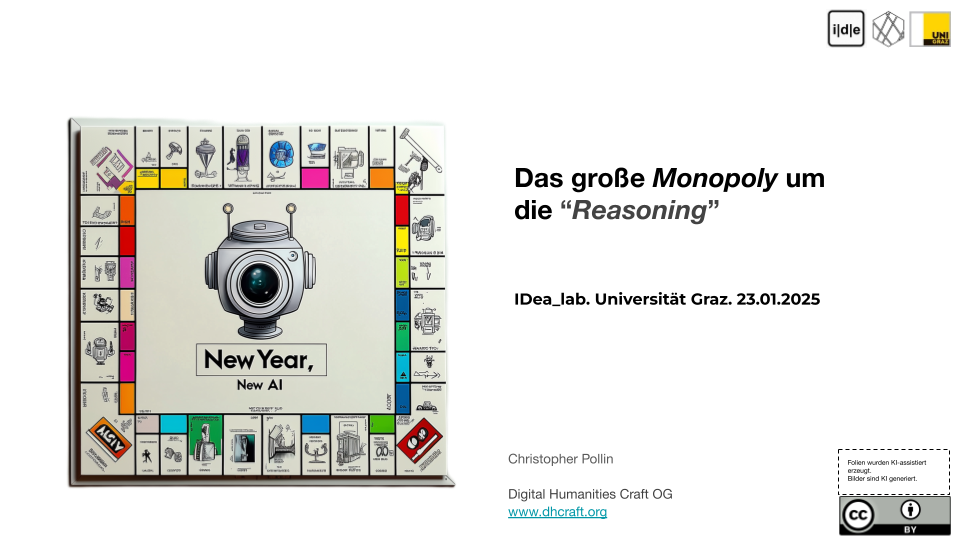
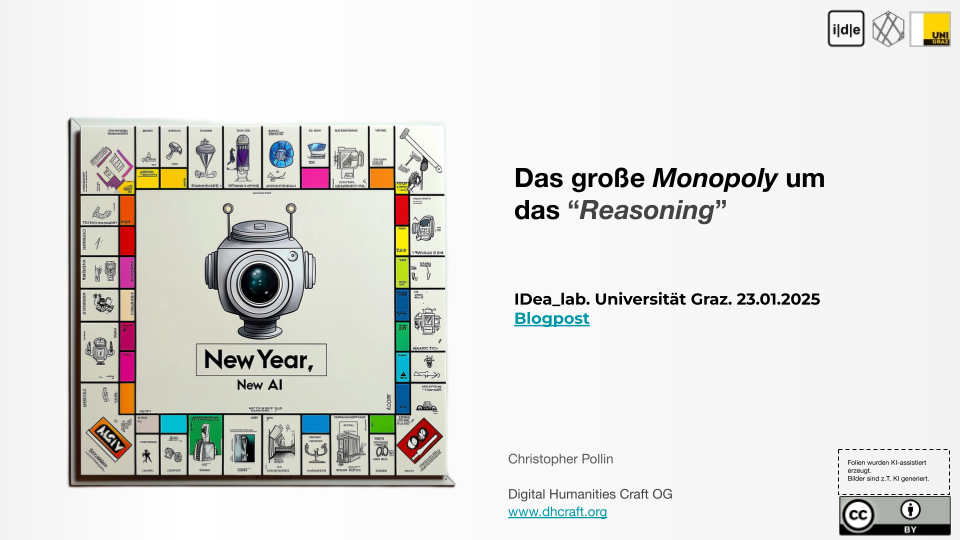
update

Changed region(s): [[0.5312, 0.3556, 0.75, 0.4148], [0.5312, 0.563, 0.625, 0.6222], [0.9062, 0.8593, 0.9688, 0.8889]]

diff --git a/index.html b/index.html
@@ -30,7 +30,7 @@
     <main>
         <div class="container mt-4">
             <section>
-                <h1>Workshopreihe "Angewandte Generative KI in den (digitalen) Geisteswissenschaften" - AGKI</h1>
+                <h1>"Angewandte Generative KI in den (digitalen) Geisteswissenschaften" - AGKI</h1>
                 <p class="lead">How to cite: Pollin, C. (2025). Workshopreihe "Angewandte Generative KI in den (digitalen) Geisteswissenschaften" (v1.1.0). Zenodo. <a href="https://doi.org/10.5281/zenodo.10647754" target="_blank" rel="noopener noreferrer">https://doi.org/10.5281/zenodo.10647754</a></p>
                 <ul>
                     <li><a href="https://www.zotero.org/groups/5319178/agki-dh" target="_blank" rel="noopener noreferrer">Zotero Bibliothek (Literatur und Papers)</a></li>
@@ -38,91 +38,6 @@
                     <li><a href="https://youtube.com/playlist?list=PLaHADNRco7n3LtUHqCwyqzAi2f8WB57Eg&si=CmX3OElxYkid0E2I" target="_blank" rel="noopener noreferrer">YouTube Playlist: Aufzeichnungen der Vorträge der Workshopreihe</a></li>
                 </ul>
            </section>
-           <section>
-            <div class="row my-3">
-                <div class="col-sm-4">
-                    <a href="workshop-pages/workshop1.html" class="card-link text-decoration-none">
-                        <div class="card">
-                            <img src="img/AGKI-RDF-Creation.png" class="card-img-top" alt="Workshop 1">
-                            <div class="card-body">
-                                <h5 class="card-title">Erzeugung und Modellierung von RDF-Daten</h5>
-                                <p class="card-text">Donnerstag, 15.06.2023, 10:00 - 11:00 Uhr</p>
-                            </div>
-                        </div>
-                    </a>
-                </div>
-                <div class="col-sm-4">
-                    <a href="workshop-pages/workshop2.html" class="card-link text-decoration-none disabled">
-                        <div class="card">
-                            <img src="img/AGKI-DigitalEdition-Text-TEI-HSA.png" class="card-img-top" alt="Workshop 2">
-                            <div class="card-body">
-                                <h5 class="card-title">Digitale Edition und TEI: Unstrukturierter Text nach TEI</h5>
-                                <p class="card-text">Donnerstag, 22.06.2023, 10:00 - 11:00 Uhr</p>
-                            </div>
-                        </div>
-                    </a>
-                </div>
-                <div class="col-sm-4">
-                    <a href="workshop-pages/workshop3.html" class="card-link text-decoration-none disabled">
-                        <div class="card">
-                            <img src="img/AGKI-DataStory-ExilTrans.png" class="card-img-top" alt="Workshop 3">
-                            <div class="card-body">
-                                <h5 class="card-title">Datenvisualisierung und Data Stories: Analyse biographischer Daten von ins Exil geflüchteten Übersetzer*innen mit Python und Jupyter Notebook</h5>
-                                <p class="card-text">Donnerstag, 29.06.2023, 10:00 - 11:00 Uhr</p>
-                            </div>
-                        </div>
-                    </a>
-                </div>
-            </div>
-            <div class="row my-3">
-                <div class="col-sm-4">
-                    <a href="workshop-pages/workshop4.html" class="card-link text-decoration-none">
-                        <div class="card">
-                            <img src="img/AGKI-ChatGPT-4-Advanced-Data-Analysis.png" class="card-img-top" alt="Workshop 4">
-                            <div class="card-body">
-                                <h5 class="card-title">Generieren. Transformieren. Analysieren. Visualisieren. ChatGPT-4 Advanced Data Analysis</h5>
-                                <p class="card-text">Montag, 02.10.2023, 12:00 - 13:00</p>
-                            </div>
-                        </div>
-                    </a>
-                </div>
-                <div class="col-sm-4">
-                    <a href="workshop-pages/workshop5.html" class="card-link text-decoration-none">
-                        <div class="card">
-                            <img src="img/AGKI-PromptEngineering.png" class="card-img-top" alt="Workshop 5">
-                            <div class="card-body">
-                                <h5 class="card-title">Einführung in das Prompt Engineering</h5>
-                                <p class="card-text">Montag, 09.10.2023, 12:00 - 13:00</p>
-                            </div>
-                        </div>
-                    </a>
-                </div>
-                <div class="col-sm-4">
-                    <a href="workshop-pages/workshop6.html" class="card-link text-decoration-none">
-                        <div class="card">
-                            <img src="img/AGKI-Text-to-Image-Midjourney-DALL-E3.png" class="card-img-top" alt="Workshop 6">
-                            <div class="card-body">
-                                <h5 class="card-title">Text to Image. Midjourney und DALL-E 3</h5>
-                                <p class="card-text">Montag, 16.10.2023, 12:00 - 13:00</p>
-                            </div>
-                        </div>
-                    </a>
-                </div>
-            </div>
-            <div class="row my-3">
-                <div class="col-sm-4">
-                    <a href="workshop-pages/workshop7.html" class="card-link text-decoration-none">
-                        <div class="card">
-                            <img src="img/AGKI-GPT-API.jpg" class="card-img-top" alt="Workshop 7">
-                            <div class="card-body">
-                                <h5 class="card-title">LLM und API. Am Beispiel von GPT</h5>
-                                <p class="card-text">Montag, 20.11.2023, 12:00 - 13:00</p>
-                            </div>
-                        </div>
-                    </a>
-                </div>
-            </div>
-        </section>
         <section>
             <div class="row my-5">
                 <h2>Akademische Vorträge und Workshops</h2>
@@ -285,10 +200,136 @@
             </div>
             </div>
         </section>
+            <section>
+                <div class="row my-3">
+                    <h2>AGKI Workshopreihe</h2>
+                    <div class="col-sm-4">
+                        <a href="workshop-pages/workshop1.html" class="card-link text-decoration-none">
+                            <div class="card">
+                                <img src="img/AGKI-RDF-Creation.png" class="card-img-top" alt="Workshop 1">
+                                <div class="card-body">
+                                    <h5 class="card-title">Erzeugung und Modellierung von RDF-Daten</h5>
+                                    <p class="card-text">Donnerstag, 15.06.2023, 10:00 - 11:00 Uhr</p>
+                                </div>
+                            </div>
+                        </a>
+                    </div>
+                    <div class="col-sm-4">
+                        <a href="workshop-pages/workshop2.html" class="card-link text-decoration-none disabled">
+                            <div class="card">
+                                <img src="img/AGKI-DigitalEdition-Text-TEI-HSA.png" class="card-img-top" alt="Workshop 2">
+                                <div class="card-body">
+                                    <h5 class="card-title">Digitale Edition und TEI: Unstrukturierter Text nach TEI</h5>
+                                    <p class="card-text">Donnerstag, 22.06.2023, 10:00 - 11:00 Uhr</p>
+                                </div>
+                            </div>
+                        </a>
+                    </div>
+                    <div class="col-sm-4">
+                        <a href="workshop-pages/workshop3.html" class="card-link text-decoration-none disabled">
+                            <div class="card">
+                                <img src="img/AGKI-DataStory-ExilTrans.png" class="card-img-top" alt="Workshop 3">
+                                <div class="card-body">
+                                    <h5 class="card-title">Datenvisualisierung und Data Stories: Analyse biographischer Daten von ins Exil geflüchteten Übersetzer*innen mit Python und Jupyter Notebook</h5>
+                                    <p class="card-text">Donnerstag, 29.06.2023, 10:00 - 11:00 Uhr</p>
+                                </div>
+                            </div>
+                        </a>
+                    </div>
+                </div>
+                <div class="row my-3">
+                    <div class="col-sm-4">
+                        <a href="workshop-pages/workshop4.html" class="card-link text-decoration-none">
+                            <div class="card">
+                                <img src="img/AGKI-ChatGPT-4-Advanced-Data-Analysis.png" class="card-img-top" alt="Workshop 4">
+                                <div class="card-body">
+                                    <h5 class="card-title">Generieren. Transformieren. Analysieren. Visualisieren. ChatGPT-4 Advanced Data Analysis</h5>
+                                    <p class="card-text">Montag, 02.10.2023, 12:00 - 13:00</p>
+                                </div>
+                            </div>
+                        </a>
+                    </div>
+                    <div class="col-sm-4">
+                        <a href="workshop-pages/workshop5.html" class="card-link text-decoration-none">
+                            <div class="card">
+                                <img src="img/AGKI-PromptEngineering.png" class="card-img-top" alt="Workshop 5">
+                                <div class="card-body">
+                                    <h5 class="card-title">Einführung in das Prompt Engineering</h5>
+                                    <p class="card-text">Montag, 09.10.2023, 12:00 - 13:00</p>
+                                </div>
+                            </div>
+                        </a>
+                    </div>
+                    <div class="col-sm-4">
+                        <a href="workshop-pages/workshop6.html" class="card-link text-decoration-none">
+                            <div class="card">
+                                <img src="img/AGKI-Text-to-Image-Midjourney-DALL-E3.png" class="card-img-top" alt="Workshop 6">
+                                <div class="card-body">
+                                    <h5 class="card-title">Text to Image. Midjourney und DALL-E 3</h5>
+                                    <p class="card-text">Montag, 16.10.2023, 12:00 - 13:00</p>
+                                </div>
+                            </div>
+                        </a>
+                    </div>
+                </div>
+                <div class="row my-3">
+                    <div class="col-sm-4">
+                        <a href="workshop-pages/workshop7.html" class="card-link text-decoration-none">
+                            <div class="card">
+                                <img src="img/AGKI-GPT-API.jpg" class="card-img-top" alt="Workshop 7">
+                                <div class="card-body">
+                                    <h5 class="card-title">LLM und API. Am Beispiel von GPT</h5>
+                                    <p class="card-text">Montag, 20.11.2023, 12:00 - 13:00</p>
+                                </div>
+                            </div>
+                        </a>
+                    </div>
+                </div>
+            </section>
+            <section>
+                <div class="row my-5">
+                    <h2>Blogbeiträge</h2>
+                    <div class="row my-3">
+                        <div class="col-sm-4">
+                            <a href="https://dhcraft.org/excellence/blog/Task-A(G)I" class="card-link text-decoration-none">
+                                <div class="card">
+                                    <img src="img/Task-AGI.png" class="card-img-top" alt="Prompt-Engineering-Forschungsdatenmanagement-DE-24">
+                                    <div class="card-body">
+                                        <h5 class="card-title">OpenAI’s Deep Research und erste “Task-A(G)I” Systeme?</h5>
+                                        <p class="card-text">Februar 2025</p>
+                                    </div>
+                                </div>
+                            </a>
+                        </div>
+                        <div class="col-sm-4">
+                            <a href="https://dhcraft.org/excellence/blog/New-Year-New-AI-IdeaLab-25" class="card-link text-decoration-none">
+                                <div class="card">
+                                    <img src="img/New-Year-New-AI-IdeaLab-25.png" class="card-img-top" alt="Prompt-Engineering-Forschungsdatenmanagement-DE-24">
+                                    <div class="card-body">
+                                        <h5 class="card-title">New Year, New AI. Das große Monopoly um die “Intelligence”</h5>
+                                        <p class="card-text">Jänner 2025</p>
+                                    </div>
+                                </div>
+                            </a>
+                        </div>
+                    </div>
+                </div>
+            </section>
         <section>
             <div class="row my-5">
                 <h2>Akademische Lehre</h2>
                 <div class="row my-3">
+                    <div class="col-sm-4">
+                        <a href="https://docs.google.com/presentation/d/1khiOOp9d195wKII9_6R7Sd_MEBSOha7HnXBQfniSFk0/edit?usp=sharing" class="card-link text-decoration-none">
+                            <div class="card">
+                                <img src="img/MCK-B1-Pollin-25.png" class="card-img-top" alt="MCK-B1-Pollin-25.png">
+                                <div class="card-body">
+                                    <h5 class="card-title">Modul B1 - Anwendung: Technische Aspekte in der KI.</h5>
+                                    <p class="card-text">Universität Graz. 28. und 29.01.2025.</p>
+                                </div>
+                            </div>
+                        </a>
+                    </div>
                     <div class="col-sm-4">
                         <a href="https://docs.google.com/presentation/d/1n786gKiBKyI0EEqlq5cc667ObAmDLXFOIVaUMrzKUiA/edit?usp=sharing" class="card-link text-decoration-none">
                             <div class="card">
@@ -296,17 +337,6 @@
                                 <div class="card-body">
                                     <h5 class="card-title">Prompt Engineering für Data Stewards und Forschungsdatenmanagement</h5>
                                     <p class="card-text">Universitätskurs Data Steward Graz. C.4 Forschungsdatenmanagement. 12.09.2024.</p>
-                                </div>
-                            </div>
-                        </a>
-                    </div>
-                    <div class="col-sm-4">
-                        <a href="https://docs.google.com/presentation/d/1G9Zh4ZPi-b5dGLttO2ktxdY1wVJBFj2e5CXqvTJoakM/edit?usp=sharing" class="card-link text-decoration-none">
-                            <div class="card">
-                                <img src="img/LegalTech-LV-24-PromptEngineering.png" class="card-img-top" alt="Legal Tech - Juristische Medienkompetenz">
-                                <div class="card-body">
-                                    <h5 class="card-title">Legal Tech - Juristische Medienkompetenz (Nutzen und Grenzen von ChatGPT für die rechtswissenschaftliche Arbeit)</h5>
-                                    <p class="card-text">Seminar. Universität Graz. SoSe 2024 & 2025.</p>
                                 </div>
                             </div>
                         </a>
